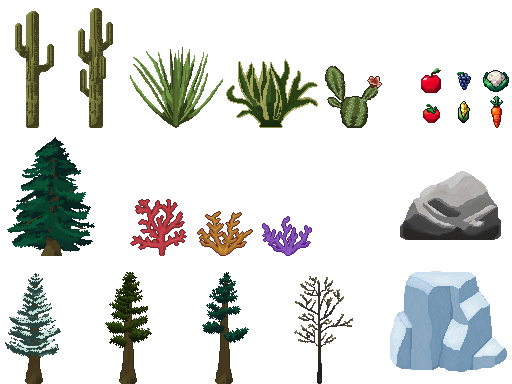
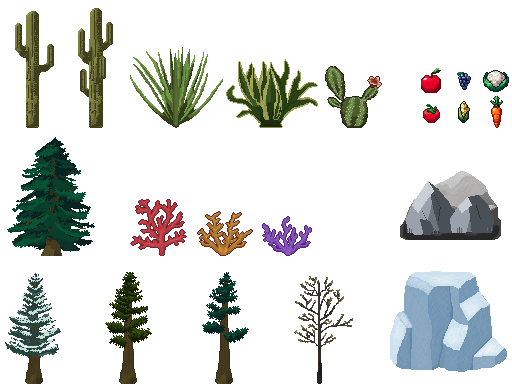
Build v146: NPC nameplate auto-hide, rabbit cleanup, rock redraw, uniform grey goats
- Noah/Damon/Shawn nameplates now hidden by default; pop up on tap and
  auto-hide after 4s (dialogue behavior unchanged)
- Rabbits: removed keying fringe, lifted grey fur to clean white,
  added readable eyes to down-facing frames
- Rock sprite redrawn as faceted rock cluster with grass tufts
  (same 100x69 box; placement and collision unchanged)
- Fixed stuck white hit-flash on goats hit by simulated adventurers;
  all goats now render with a uniform grey coat
- Build v146 label; sim 33,014 passed, 0 failed

Changed region(s): [[0.7812, 0.4688, 0.9688, 0.625]]

diff --git a/src/App.tsx b/src/App.tsx
@@ -1439,7 +1439,7 @@ function WorldMap({ chunk, onClose }: { chunk: Point; onClose: () => void }) {
     <div className="map-overlay" role="dialog" aria-modal="true" aria-labelledby="map-title" data-testid="overlay-world-map">
       <div className="map-sheet">
         <div className="map-sheet-heading">
-          <div><span className="atlas-eyebrow">Pixel tile atlas · build v145</span><h2 id="map-title">The Far Meadow</h2></div>
+          <div><span className="atlas-eyebrow">Pixel tile atlas · build v146</span><h2 id="map-title">The Far Meadow</h2></div>
           <button className="map-close" onClick={onClose} aria-label="Close world map" data-testid="button-close-map"><X size={19} /></button>
         </div>
         <div className="map-toolbar">
@@ -1637,6 +1637,10 @@ function GameField({ inventory, equippedDagger, playerStats, statPoints, onPlaye
   const [playerLevel, setPlayerLevel] = useState(1);
   const [playerClass, setPlayerClass] = useState<PlayerClass>('Beginner');
   const [npcDialogue, setNpcDialogue] = useState<TownNpc | null>(null);
+  // Town NPC nameplates (Noah/Damon/Shawn) stay hidden until the NPC is
+  // tapped, then auto-hide after a few seconds.
+  const [nameplateNpc, setNameplateNpc] = useState<string | null>(null);
+  const nameplateTimerRef = useRef<number | null>(null);
   const [npcStates, setNpcStates] = useState(startingTownNpcs);
   const [simulatedAdventurers, setSimulatedAdventurers] = useState(initialSimulatedAdventurers);
   const [selectedAdventurerId, setSelectedAdventurerId] = useState<string | null>(null);
@@ -1870,6 +1874,7 @@ function GameField({ inventory, equippedDagger, playerStats, statPoints, onPlaye
         const updatedGoats = goatsRef.current.map((goat) => goat.id === target.id ? { ...goat, hp: nextHp, disposition: defeated ? 'defeated' as GoatDisposition : 'aggressive' as GoatDisposition, state: defeated ? 'die' as GoatStateName : 'hurt' as GoatStateName, hurtTimer: defeated ? 0 : 350, attacking: false, moving: false, hitFlash: true, respawnTicks: 0 } : goat);
         goatsRef.current = updatedGoats;
         setGoats(updatedGoats);
+        window.setTimeout(() => setGoats((current) => current.map((goat) => goat.id === target.id ? { ...goat, hitFlash: false } : goat)), 100);
         nextAdventurers = next.map((adventurer) => adventurer.id === attacker.adventurer.id ? { ...adventurer, activity: defeated ? 'exploring after defeating a goat' : 'fighting a goat' } : adventurer);
         if (defeated) setLogs((currentLogs) => [{ text: attacker.adventurer.name + ' defeated a goat nearby.', color: 'blue' }, ...currentLogs].slice(0, 3));
       }
@@ -2361,8 +2366,18 @@ if (active) {
   const startingCenter = isTutorialCenter(chunk);
   const talkToNpc = (npc: TownNpc) => {
     setNpcDialogue(npc);
+    // Pop the nameplate up on tap; auto-hide it after 4 seconds.
+    setNameplateNpc(npc.name);
+    if (nameplateTimerRef.current !== null) window.clearTimeout(nameplateTimerRef.current);
+    nameplateTimerRef.current = window.setTimeout(() => {
+      setNameplateNpc(null);
+      nameplateTimerRef.current = null;
+    }, 4000);
     setLogs((currentLogs) => [{ text: `${npc.name} turns to you: ${npc.title}.`, color: 'blue' }, ...currentLogs].slice(0, 3));
   };
+  useEffect(() => () => {
+    if (nameplateTimerRef.current !== null) window.clearTimeout(nameplateTimerRef.current);
+  }, []);
   const inspectAdventurer = (adventurer: SimulatedAdventurer) => {
     const closingNameplate = selectedAdventurerId === adventurer.id;
     setSelectedAdventurerId((current) => current === adventurer.id ? null : adventurer.id);
@@ -2590,7 +2605,7 @@ if (active) {
           )}
           {currentWorldTile.landmark?.name === 'Mosslight Crossing' && npcStates.map((npc) => (
             <button
-              className={'town-npc npc-' + npc.role + (npc.moving ? ' is-moving' : '')}
+              className={'town-npc npc-' + npc.role + (npc.moving ? ' is-moving' : '') + (nameplateNpc === npc.name ? ' show-nameplate' : '')}
               onClick={() => talkToNpc(npc)}
               style={{ left: npc.position.x + '%', top: npc.position.y + '%' }}
               data-role={npc.role}

diff --git a/src/index.css b/src/index.css
@@ -605,6 +605,12 @@
   color: #223a2d;
   text-align: left;
   white-space: nowrap;
+  opacity: 0;
+  pointer-events: none;
+  transition: opacity .18s ease;
+}
+.town-npc.show-nameplate .npc-nameplate {
+  opacity: 1;
 }
 .npc-nameplate strong {
   font-family: var(--app-font-display);
@@ -2008,6 +2014,8 @@ body {
   background-position: 0 0;
   image-rendering: pixelated;
   animation: none;
+  /* Uniform grey coat for every goat. */
+  filter: grayscale(.42) brightness(.96);
 }
 /* Ambient birds: tiny pixel-style sprites, purely decorative. */
 .field-birds { position: absolute; inset: 0; pointer-events: none; z-index: 5; }
@@ -2123,7 +2131,7 @@ body {
 .goat.is-moving[data-facing='right'] .goat-sprite { background-position-y: -48px; }
 .goat.is-moving[data-facing='down'] .goat-sprite { background-position-y: 0; }
 .goat.is-moving[data-facing='up'] .goat-sprite { background-position-y: -72px; }
-.goat-aggro .goat-sprite { filter: sepia(.35) saturate(1.4) drop-shadow(0 0 2px rgba(185, 77, 66, .55)); }
+.goat-aggro .goat-sprite { filter: grayscale(.42) sepia(.35) saturate(1.4) drop-shadow(0 0 2px rgba(185, 77, 66, .55)); }
 @keyframes goat-walk { from { background-position-x: 0; } to { background-position-x: -96px; } }
 .goat-hp { position: absolute; z-index: 2; left: 5px; top: 2px; height: 3px; border: 1px solid rgba(50, 53, 37, .7); background: #80a457; }
 .goat-aggro .goat-hp { background: #b94d42; }
